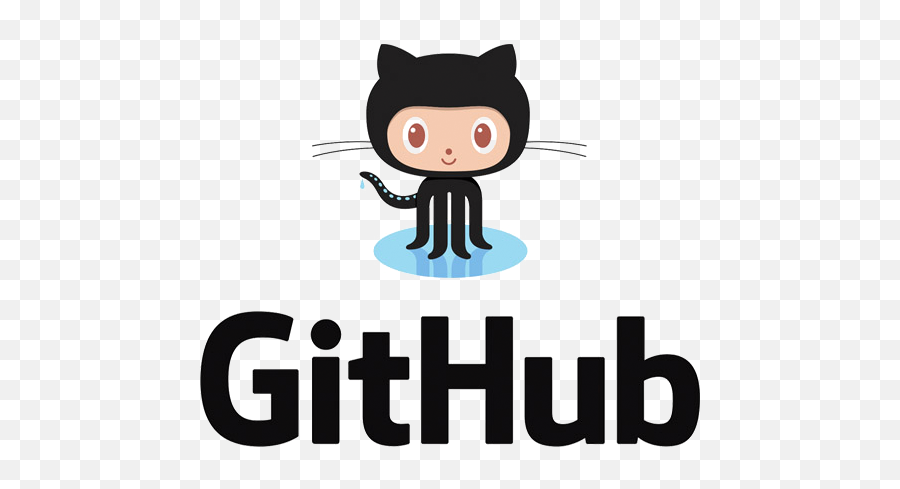
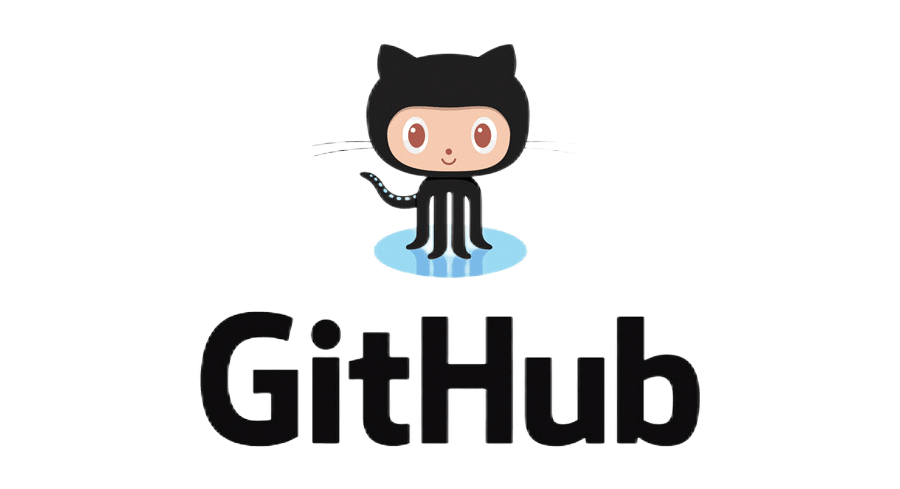
4 commit

diff --git a/CommitsManager/wwwroot/css/main-theme.css b/CommitsManager/wwwroot/css/main-theme.css
@@ -774,6 +774,7 @@ progress {
     padding-left: calc(var(--bs-gutter-x) * 0.5);
     margin-right: auto;
     margin-left: auto;
+    vertical-align: central;
 }
 
 @media (min-width: 576px) {
@@ -14285,3 +14286,18 @@ legend {
     .card .h6 {
         text-shadow: 0 0 1px rgba(255, 255, 255, 0.6), 0 0 3px rgba(255, 255, 255, 0.5), 0 0 0.5rem rgba(255, 255, 255, 0.3), 0 0 2rem rgba(255, 255, 255, 0.2);
     }
+
+.github-logo {
+    max-width: 300px; /* Установите желаемую максимальную ширину */
+    max-height: 300px; /* Установите желаемую максимальную высоту */
+    width: auto; /* Сохраняет соотношение сторон */
+    height: auto; /* Сохраняет соотношение сторон */
+    display: block; /* Убедитесь, что изображение обрабатывается как блочный элемент */
+    margin: 0 auto; /* Автоматически центрирует изображение по горизонтали */
+    background: none; /* Устанавливает прозрачный фон */
+    border: none; /* Убирает границу */
+}
+.footerContainer{
+    vertical-align: bottom;
+
+}
